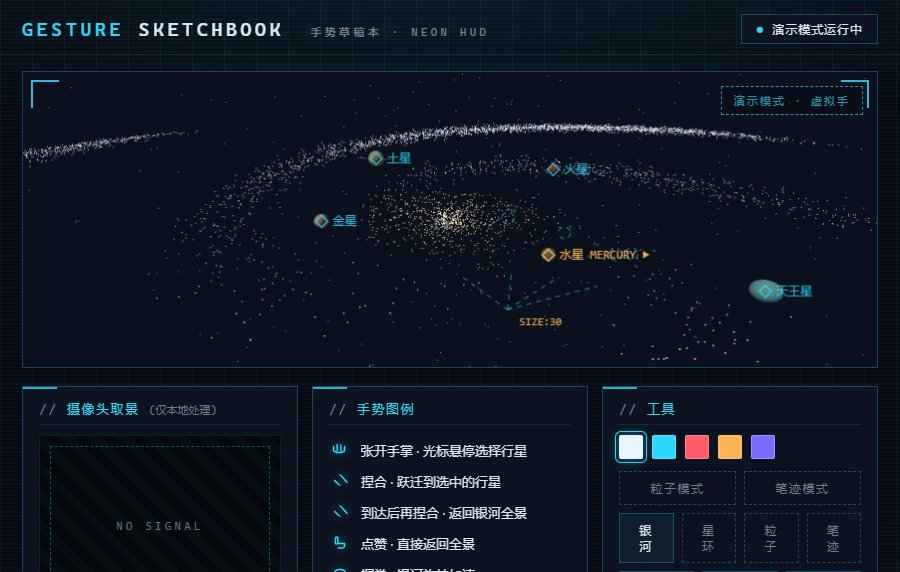
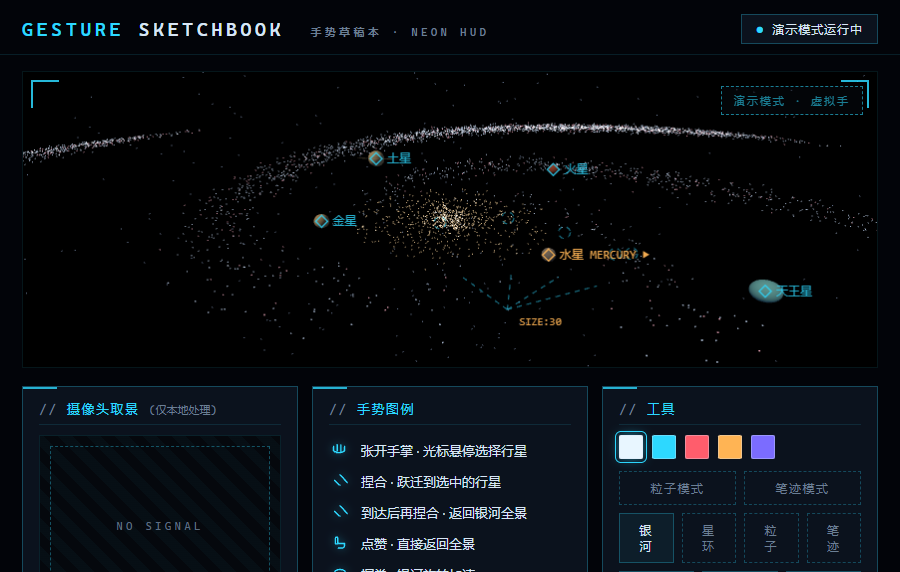
feat: 银河/星环纯黑沉浸背景；粒子模式支持摄像头人脸作绘制背景（擦除式拖影透出视频，仅本地）

diff --git a/js/app.js b/js/app.js
@@ -243,6 +243,7 @@ async function enterSpace() {
       renderMode = "particles";
       syncModeButtons(); buildLegend();
       pad._resize(); ps._resize(); particleLoop();
+      applyModeVisuals();
       return;
     }
   }
@@ -310,6 +311,7 @@ async function enterGalaxy() {
       renderMode = "particles";
       syncModeButtons(); buildLegend();
       pad._resize(); ps._resize(); particleLoop();
+      applyModeVisuals();
       return;
     }
   }
@@ -340,6 +342,21 @@ function inkFrame(f) {
   if (pad.dirty) pad.render();
 }
 
+// ---------- 背景与模式视觉 ----------
+function syncCamBg() {
+  const bg = $("#camBg");
+  const on = renderMode === "particles" && mode === "camera" && video.srcObject;
+  bg.classList.toggle("hidden", !on);
+  if (on) bg.srcObject = video.srcObject; // 摄像头画面作粒子/花朵背景（仅本地）
+}
+
+function applyModeVisuals() {
+  const space = renderMode === "space3d" || renderMode === "galaxy";
+  document.body.classList.toggle("space-mode", space); // 银河/星环：纯黑沉浸背景
+  document.querySelector(".paper-wrap").classList.toggle("space-bg", space);
+  syncCamBg();
+}
+
 // ---------- 统一帧入口 ----------
 function onFrame(f) {
   if (renderMode === "particles") particleFrame(f);
@@ -350,7 +367,7 @@ function onFrame(f) {
 
 // ---------- 一次性手势事件（笔迹模式的动作在这里；粒子模式走注册表） ----------
 function onGesture(g) {
-  if (renderMode === "particles") return; // 粒子模式在 particleFrame 里分发，不能提前改 lastGesture
+  if (renderMode !== "ink") return; // 粒子/星环/银河各自在帧循环里分发，不能提前改 lastGesture
   lastGesture = g;
 
   switch (g) {
@@ -401,6 +418,7 @@ function setRenderMode(m) {
   else if (m === "ink") { pad._resize(); pad.dirty = true; showToast("笔迹模式"); }
   else if (m === "space3d") { enterSpace().then(() => showToast("3D 星环模式")); }
   else if (m === "galaxy") { enterGalaxy().then(() => showToast("银河星旅模式")); }
+  applyModeVisuals();
 }
 
 function syncModeButtons() {
@@ -419,6 +437,7 @@ async function startCamera() {
   camStatus.textContent = "请求权限中…";
   const ok = await engineStart();
   if (!ok) mode = "paper";
+  applyModeVisuals();
 }
 
 async function engineStart() {
@@ -438,6 +457,7 @@ function startDemo() {
   mode = "demo";
   demoBadge.classList.remove("hidden");
   setStatus("演示模式运行中", "demo");
+  applyModeVisuals();
   import("./demo.js").then(({ DemoHand }) => {
     demo = new DemoHand({ onFrame, onGesture });
     // 3D 模式下等引擎就绪再开始走时间轴（其他模式渲染即就绪）
@@ -567,6 +587,7 @@ if (renderMode === "particles") {
 } else if (renderMode === "galaxy") {
   enterGalaxy();
 }
+applyModeVisuals();
 
 const params = new URLSearchParams(location.search);
 if (params.get("demo") === "1") {

diff --git a/css/style.css b/css/style.css
@@ -134,6 +134,13 @@ body::after {
 
 #paper { position: absolute; inset: 0; width: 100%; height: 100%; display: block; }
 #space, #galaxy { position: absolute; inset: 0; width: 100%; height: 100%; display: block; }
+#camBg { position: absolute; inset: 0; width: 100%; height: 100%; object-fit: cover; transform: scaleX(-1); }
+
+/* 3D 空间模式（银河/星环）：纯黑沉浸背景，隐藏纸面网格 */
+.paper-wrap.space-bg { background: #000; border-color: rgba(45, 216, 255, .1); }
+body.space-mode { background: #020409; }
+body.space-mode::before,
+body.space-mode::after { display: none; }
 #space { position: absolute; inset: 0; width: 100%; height: 100%; display: block; }
 
 .hint {

diff --git a/js/particles.js b/js/particles.js
@@ -148,8 +148,9 @@ export class ParticleSystem {
    */
   render(hud) {
     const tctx = this.trail.getContext("2d");
-    tctx.globalCompositeOperation = "source-over";
-    tctx.fillStyle = `rgba(7, 11, 18, ${CONFIG.particles.trailFade})`;
+    // 擦除式拖影：不涂黑而是让拖影层渐隐，这样底层摄像头画面可以透出来
+    tctx.globalCompositeOperation = "destination-out";
+    tctx.fillStyle = `rgba(0, 0, 0, ${CONFIG.particles.trailFade})`;
     tctx.fillRect(0, 0, this.w, this.h);
 
     tctx.globalCompositeOperation = "lighter";

diff --git a/index.html b/index.html
@@ -15,6 +15,7 @@
 
   <main class="stage">
     <section class="paper-wrap">
+      <video id="camBg" class="hidden" autoplay playsinline muted></video>
       <canvas id="space" class="hidden"></canvas>
       <canvas id="galaxy" class="hidden"></canvas>
       <canvas id="paper" width="900" height="560"></canvas>

diff --git a/README.md b/README.md
@@ -1,10 +1,10 @@
 # 手势草稿本 · Gesture Sketchbook
 
-用摄像头手势驱动的实时交互粒子 Web 应用，四种视觉模式：**银河星旅**（Three.js，默认）、**3D 星环**、**粒子**、**笔迹**。移动手掌选中行星，捏合跃迁过去；挥动手掌，星环随你加速旋转。深空底色 + 青色 HUD，科技感拉满。
+用摄像头手势驱动的实时交互粒子 Web 应用，四种视觉模式：**银河星旅**（Three.js，纯黑沉浸背景）、**3D 星环**、**粒子**（花开可拿摄像头人脸当背景）、**笔迹**。移动手掌选中行星，捏合跃迁过去；挥动手掌，星环随你加速旋转。深空底色 + 青色 HUD，科技感拉满。
 
 ![演示动图](assets/demo.gif)
 
-银河星旅（跃迁到行星）与摄像头异常处理：
+银河星旅(跃迁到行星)与摄像头异常处理:
 
 ![银河星旅](assets/screenshots/demo-galaxy-overview.png)
 
@@ -18,18 +18,18 @@
 
 ## 手势说明
 
-默认是 **银河星旅模式**（Three.js：银河系 + 七大行星），侧栏可切换 **3D 星环 / 粒子 / 笔迹**：
+默认是 **银河星旅模式**(Three.js:银河系 + 七大行星),侧栏可切换 **3D 星环 / 粒子 / 笔迹**:
 
 | 手势 | 动作 | 银河星旅 | 3D 星环 | 粒子模式 | 笔迹模式 |
 |------|------|---------|---------|---------|---------|
-| 🖐 张开手掌 | 面向镜头移动 | 光标悬停选择行星 | 视角跟随，挥动加速旋转 | 指尖拖出发光粒子流 | 用食指尖绘制霓虹笔迹 |
+| 🖐 张开手掌 | 面向镜头移动 | 光标悬停选择行星 | 视角跟随,挥动加速旋转 | 指尖拖出发光粒子流 | 用食指尖绘制霓虹笔迹 |
 | ✊ 握拳 | 保持 3 帧 | 银河旋转加速 | 星环收缩加速 | 从掌心爆发一圈粒子 | 切换画笔颜色 |
 | ☝ 食指上指 | 只伸食指 | 俯瞰银河旋臂 | 切换俯瞰视角 | 指尖向上喷射离子喷泉 | 打开/关闭构造线 |
 | ✌ 剪刀手 | 伸出食指+中指 | 时间迟缓 | 星环分裂成内外双环 | 双指间生成量子涡流 | 切换笔刷粗细 |
 | 👍 点赞 | 竖起拇指 | 返回银河全景 | 超新星爆开重组 | 超新星爆发并清空粒子 | 清空画布 |
-| 🤏 捏合 | 拇指食指捏在一起 | 跃迁到选中行星；到达后再捏合返回 | 万千粒子聚合成星球 | 聚合成一朵缓缓绽放的花，松开消散 | 撤销上一笔 |
+| 🤏 捏合 | 拇指食指捏在一起 | 跃迁到选中行星;到达后再捏合返回 | 万千粒子聚合成星球 | 聚合成一朵缓缓绽放的花,松开消散 | 撤销上一笔 |
 
-除了手势，**动作本身也有效**：快速挥动手掌会带起粒子/加速星环（掌风气流）。
+除了手势,**动作本身也有效**:快速挥动手掌会带起粒子/加速星环(掌风气流)。
 
 键盘快捷键:`1-5` 选颜色 · `C` 构造线(笔迹模式) · `Ctrl+Z` 撤销 · `Ctrl+S` 导出 PNG。
 
@@ -54,14 +54,14 @@
 
 ## 技术栈
 
-- **原生 HTML / CSS / JavaScript**——没有框架、没有构建步骤，适合初学者逐行阅读
-- **Three.js**——3D 模式（银河星旅 / 星环）的 WebGL 渲染（CDN 按需懒加载）
-- **MediaPipe Tasks Vision（GestureRecognizer）**——Google 开源的浏览器端手势识别，21 个手部关键点 + 手势分类，全部在浏览器本地推理
-- **Canvas 2D**——粒子/笔迹渲染、HUD 构造线绘制
+- **原生 HTML / CSS / JavaScript**--没有框架、没有构建步骤,适合初学者逐行阅读
+- **Three.js**--3D 模式(银河星旅 / 星环)的 WebGL 渲染(CDN 按需懒加载)
+- **MediaPipe Tasks Vision(GestureRecognizer)**--Google 开源的浏览器端手势识别,21 个手部关键点 + 手势分类,全部在浏览器本地推理
+- **Canvas 2D**--粒子/笔迹渲染、HUD 构造线绘制
 
 ## 隐私说明
 
-- 摄像头画面**只在本机浏览器内处理**,不会上传到任何服务器。
+- 摄像头画面**只在本机浏览器内处理**，不会上传到任何服务器；粒子模式下它同时作为绘制背景实时显示，同样不出本机。
 - 代码中不存在把视频帧发送到远程接口的调用;唯一的网络请求是首次打开时从 CDN 下载识别模型(约 8MB),之后浏览器会缓存。
 - 关闭页面即停止摄像头,可随时在浏览器地址栏撤销授权。
 
@@ -74,10 +74,10 @@
 | `js/config.js` | **所有可调参数**:颜色、笔刷、平滑、阈值--改这里就能定制 |
 | `js/gestures.js` | 摄像头 + MediaPipe 识别循环 + 平滑/防抖 |
 | `js/sketch.js` | 绘画引擎:笔迹、构造线、撤销、导出 |
-| `js/galaxy.js` | 银河星旅：螺旋星系背景、七大行星、光标选择与跃迁 |
-| `js/space3d.js` | 3D 星环模式：Three.js 粒子云 + 相机/聚合/分裂 |
-| `js/particles.js` | 粒子引擎：粒子池、引力点/涡流力场、辉光拖影渲染 |
-| `js/effects.js` | **手势→粒子效果注册表（加新效果改这里）** |
+| `js/galaxy.js` | 银河星旅:螺旋星系背景、七大行星、光标选择与跃迁 |
+| `js/space3d.js` | 3D 星环模式:Three.js 粒子云 + 相机/聚合/分裂 |
+| `js/particles.js` | 粒子引擎:粒子池、引力点/涡流力场、辉光拖影渲染 |
+| `js/effects.js` | **手势→粒子效果注册表(加新效果改这里)** |
 | `js/demo.js` | 演示模式:虚拟手按时间轴驱动同一套数据流 |
 | `js/app.js` | 入口:双模式切换 + 把"识别结果"翻译成"交互动作" |
 | `scripts/serve.js` | 本地静态服务器 |
